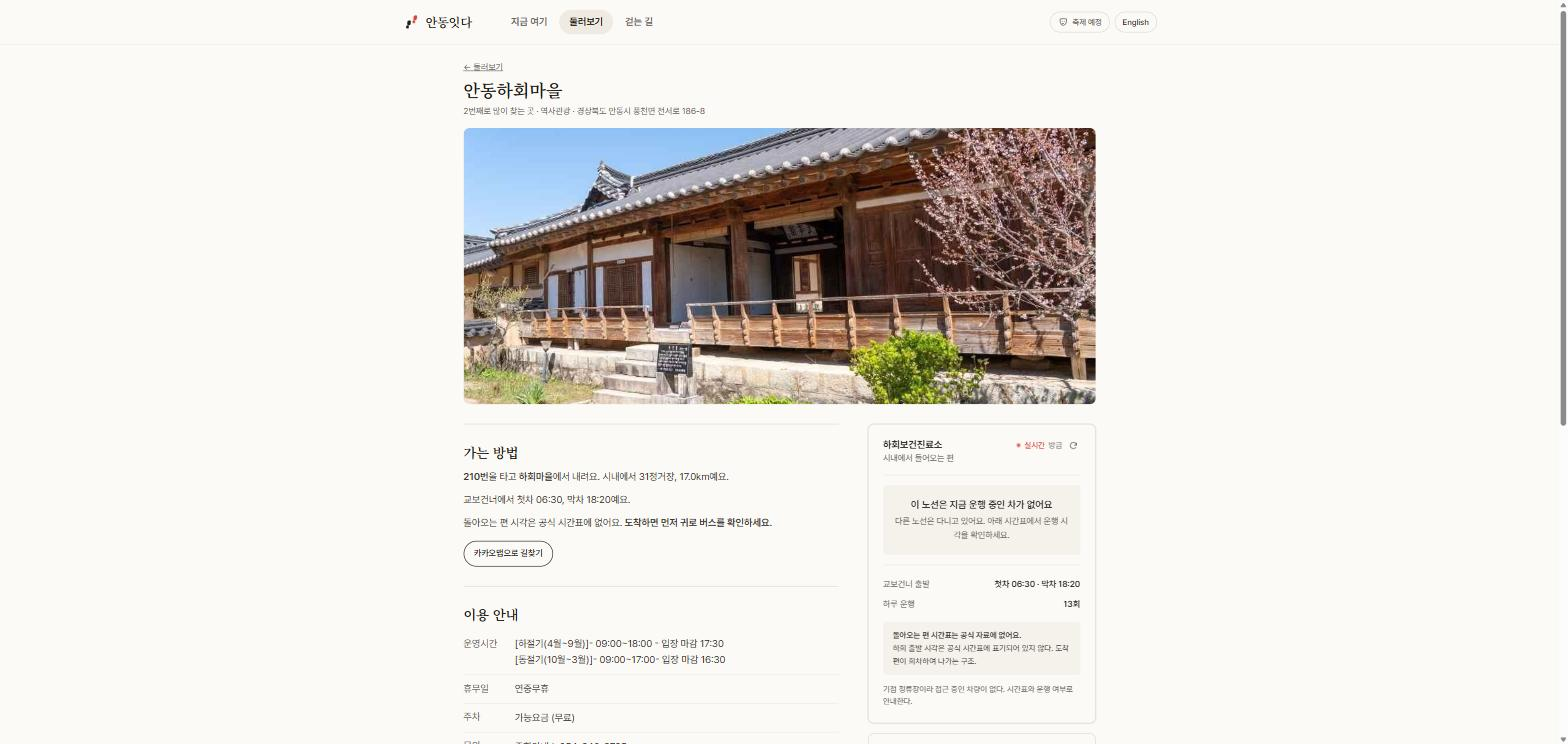
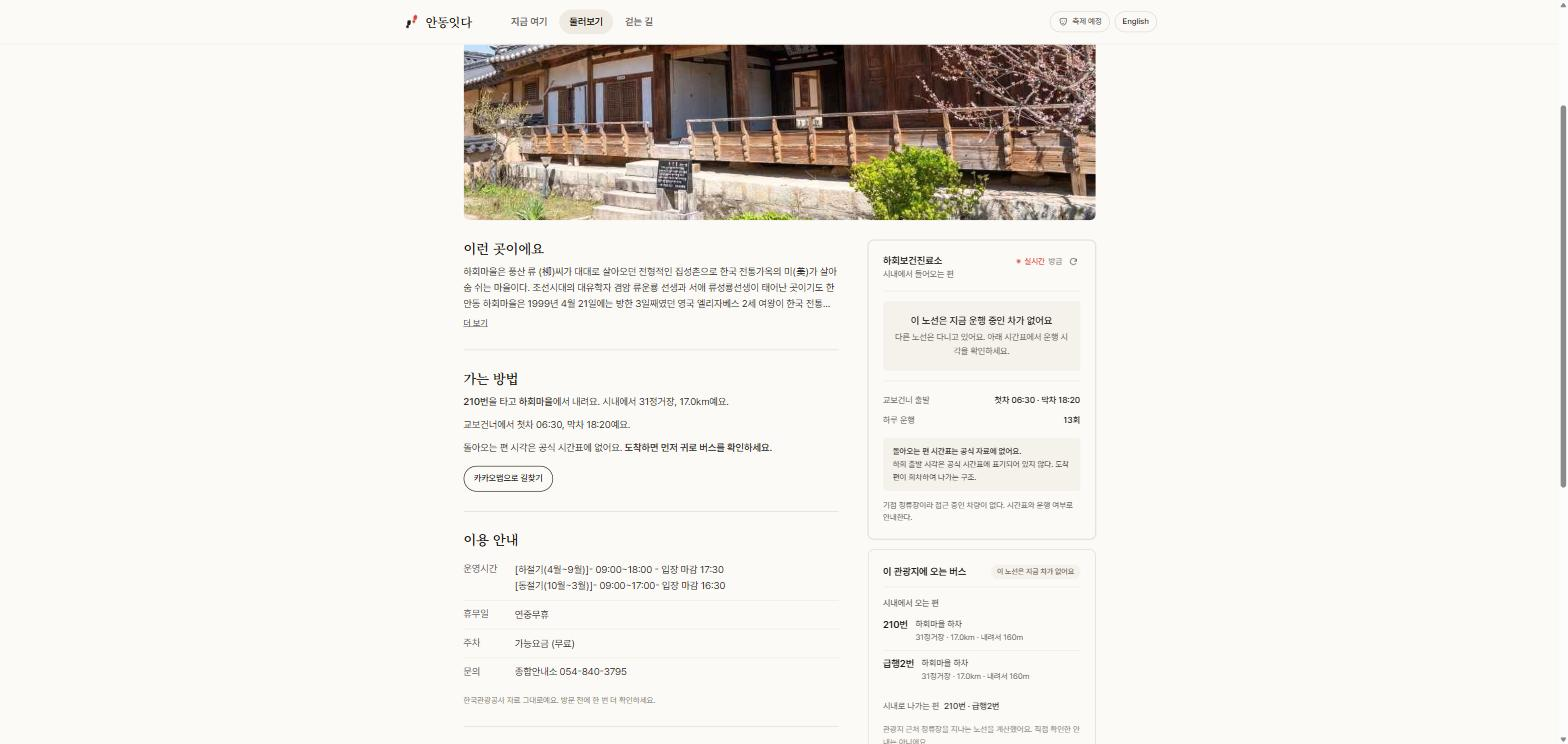
docs: 설명이 붙은 상세 화면으로 03번 캡처를 다시 뜬다
같은 화면인데 "이런 곳이에요"가 늘었다. 국문 관광정보 서비스가 설명까지
쓰인다는 증거가 한 장에 함께 들어간다.

Claude-Session: https://claude.ai/code/session_01XgYMAhwLJAjRPW32tu5Zpn

diff --git a/docs/apply/README.md b/docs/apply/README.md
@@ -19,9 +19,9 @@
 
 | 활용신청 | 캡처 | 화면에서 확인되는 것 |
 |---|---|---|
-| **국문 관광정보 서비스_GW**<br>(KorService2) | `02`, `03`, `07` | 관광지 44곳의 사진·분류·주소(`areaBasedList2`), 운영시간·휴무일·주차·문의(`detailIntro2`), 축제 기간·장소(`searchFestival2`) |
+| **국문 관광정보 서비스_GW**<br>(KorService2) | `02`, `03`, `07` | 관광지 44곳의 사진·분류·주소(`areaBasedList2`), 설명(`detailCommon2`의 overview), 운영시간·휴무일·주차·문의(`detailIntro2`), 축제 기간·장소(`searchFestival2`) |
 | **기초지자체 중심 관광지 정보**<br>(LocgoHubTarService1) | `01`, `02` | "안동에서 많이 찾는 곳" 방문 기반 순위, 목록의 인기순 정렬과 순위 배지 |
-| **영문 관광정보서비스_GW**<br>(EngService2) | `05` | 영문 관광지명(Andong Hahoe Village), 영문 이용 안내(`detailIntro2`) |
+| **영문 관광정보서비스_GW**<br>(EngService2) | `05` | 영문 관광지명(Andong Hahoe Village), 영문 설명(`detailCommon2`), 영문 이용 안내(`detailIntro2`) |
 | **관광지별 연관 관광지 정보**<br>(TarRlteTarService1) | `04` | "함께 많이 찾는 곳" — 거리가 아니라 방문 행동으로 고른 목록 |
 | **관광사진 정보_GW**<br>(PhotoGalleryService1) | `06` | 부용대 대표 사진. 국문 관광정보에 사진이 없던 곳을 이 API가 채웠다 |
 
@@ -33,7 +33,7 @@
 |---|---|
 | `01-locgohub-인기순위-실시간버스.jpg` | 홈 — 방문 순위 + 실시간 버스 도착 |
 | `02-korservice2-관광지목록-사진분류.jpg` | 둘러보기 — 관광지 44곳 |
-| `03-korservice2-detailIntro2-이용안내.jpg` | 관광지 상세 — 사진·가는 방법·이용 안내 |
+| `03-korservice2-detailIntro2-이용안내.jpg` | 관광지 상세 — 사진·설명·가는 방법·이용 안내 |
 | `04-tarrltetar-함께많이찾는곳.jpg` | 관광지 상세 — 함께 많이 찾는 곳 |
 | `05-engservice2-영문화면.jpg` | 영문 상세(`/en/spots/…`) |
 | `06-photogallery-부용대사진.jpg` | 부용대 상세 — 관광사진 API가 채운 대표 사진 |
@@ -45,6 +45,7 @@
 ```
 관광지        44곳   (기초지자체 중심 관광지 + 국문 관광정보 병합)
 음식점        28곳   (국문 관광정보, 법정동 코드 조회)
+설명          국문 35곳 · 영문 17곳
 이용 안내     국문 34곳 · 영문 13곳
 연관 관광지   21곳
 영문명        17곳
